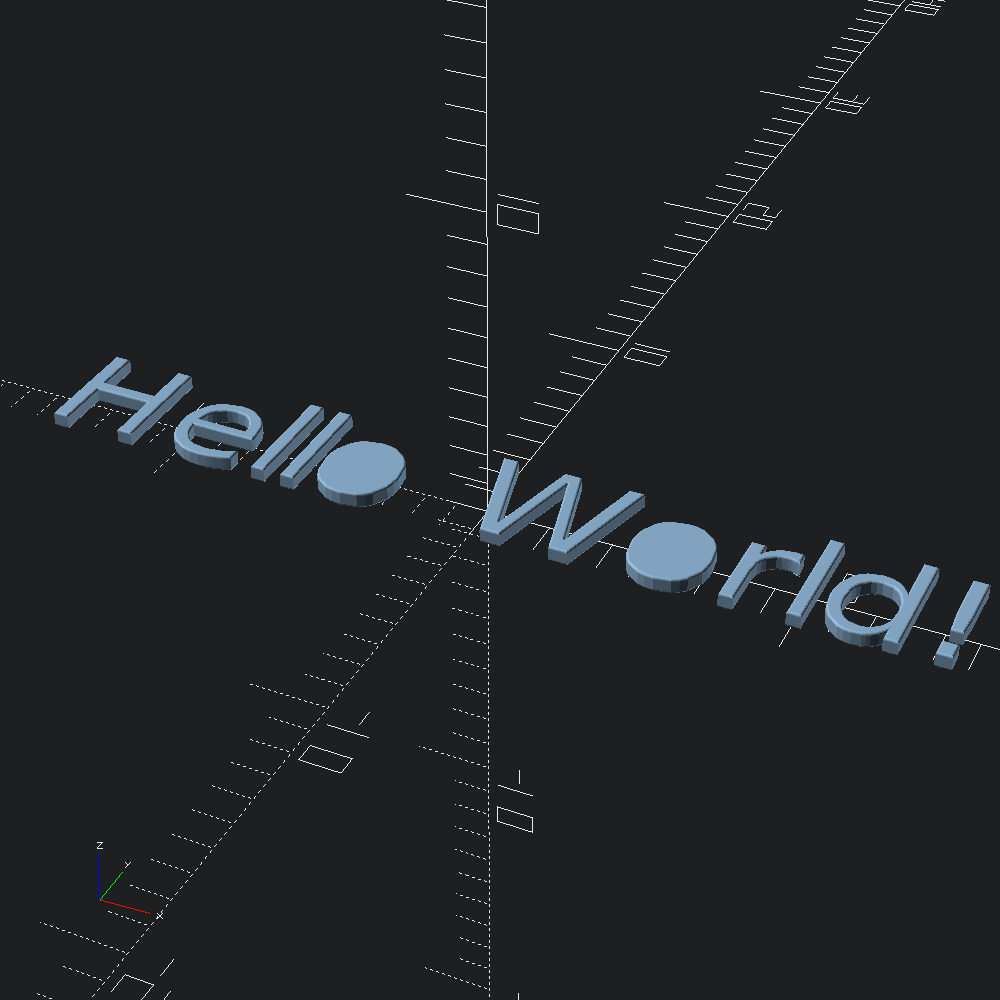
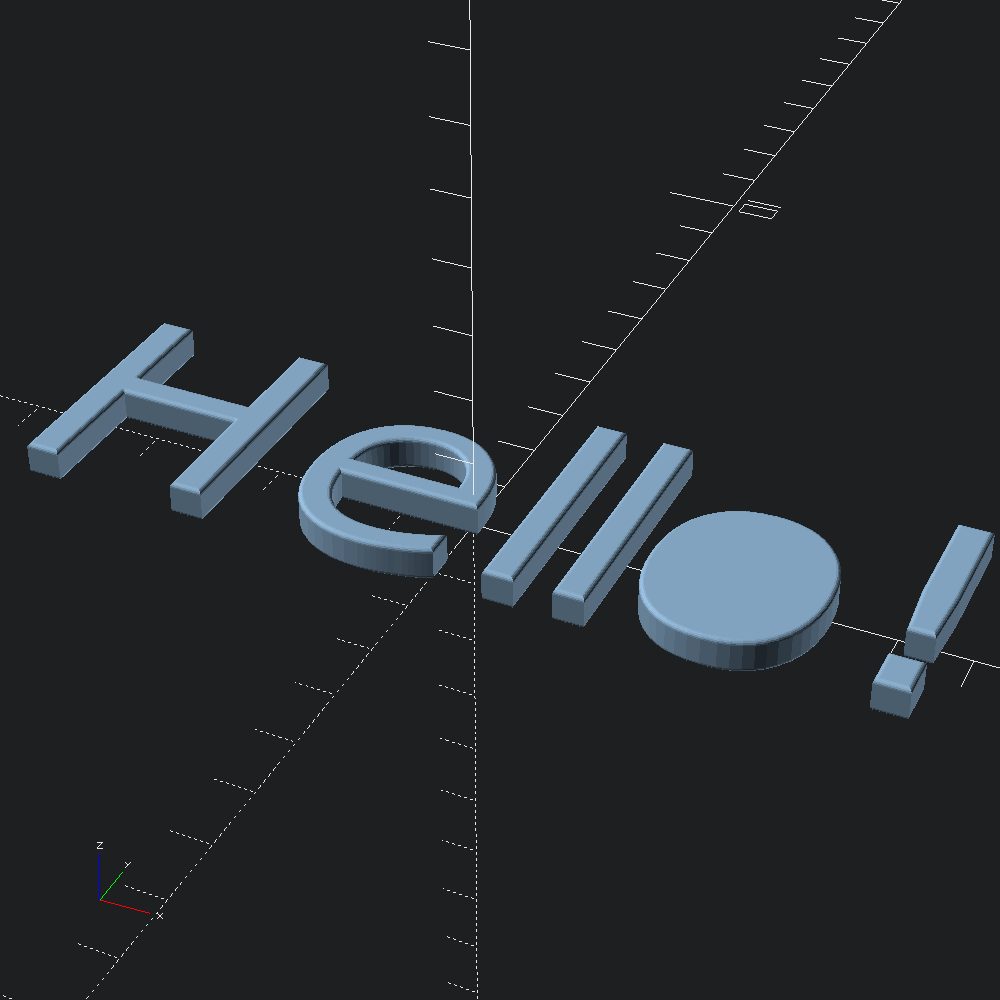
deploy: f668d345ef161a8c3db050849059b578d2c6c04e

diff --git a/scad_ml/rounded_text.html b/scad_ml/rounded_text.html
@@ -1,6 +1,6 @@
 <!DOCTYPE html>
-<html xmlns="http://www.w3.org/1999/xhtml"><head><title>rounded_text (scad_ml.rounded_text)</title><link rel="stylesheet" href="../odoc.css"/><meta charset="utf-8"/><meta name="generator" content="odoc 2.1.1"/><meta name="viewport" content="width=device-width,initial-scale=1.0"/><script src="../highlight.pack.js"></script><script>hljs.initHighlightingOnLoad();</script></head><body class="odoc"><nav class="odoc-nav"><a href="index.html">Up</a> – <a href="index.html">scad_ml</a> &#x00BB; rounded_text</nav><header class="odoc-preamble"><h1 id="rounded-text-extrusion"><a href="#rounded-text-extrusion" class="anchor"></a>Rounded text extrusion</h1><pre><code>open Scad_ml</code></pre><p>Generate a list of <a href="Scad_ml/Poly2/index.html#type-t"><code>Poly2.t</code></a> spelling out <b>Hello World!</b>. At the moment, <a href="Scad_ml/PolyText/index.html#val-text"><code>PolyText.text</code></a> is not as flexible and feature rich as <a href="Scad_ml/Scad/index.html#val-text"><code>Scad.text</code></a> (OpenSCADs text shape function), but this gives up point representations that be can work with directly.</p><pre><code>let hello = PolyText.text ~center:true ~fn:2 ~size:5. ~font:&quot;Ubuntu&quot; &quot;Hello World!&quot;</code></pre><p>Circular roundovers with <code>fn</code> steps, specified by a distance to be <code>`Cut</code> off of the corners. You can expect some finickiness with applying roundovers to the polygons produced by <a href="Scad_ml/PolyText/index.html#val-text"><code>PolyText.text</code></a>, as the paths coming from Cairo may have some points quite close together, leading to illegal paths when further roundover operations are applied.</p><pre><code>let caps =
-  let spec = Mesh.Cap.(round ~mode:Delta @@ circ ~fn:5 (`Cut 0.029)) in
+<html xmlns="http://www.w3.org/1999/xhtml"><head><title>rounded_text (scad_ml.rounded_text)</title><link rel="stylesheet" href="../odoc.css"/><meta charset="utf-8"/><meta name="generator" content="odoc 2.1.1"/><meta name="viewport" content="width=device-width,initial-scale=1.0"/><script src="../highlight.pack.js"></script><script>hljs.initHighlightingOnLoad();</script></head><body class="odoc"><nav class="odoc-nav"><a href="index.html">Up</a> – <a href="index.html">scad_ml</a> &#x00BB; rounded_text</nav><header class="odoc-preamble"><h1 id="rounded-text-extrusion"><a href="#rounded-text-extrusion" class="anchor"></a>Rounded text extrusion</h1><pre><code>open Scad_ml</code></pre><p>Generate a list of <a href="Scad_ml/Poly2/index.html#type-t"><code>Poly2.t</code></a> spelling out <b>Hello World!</b>. At the moment, <a href="Scad_ml/PolyText/index.html#val-text"><code>PolyText.text</code></a> is not as flexible and feature rich as <a href="Scad_ml/Scad/index.html#val-text"><code>Scad.text</code></a> (OpenSCADs text shape function), but this gives up point representations that be can work with directly.</p><pre><code>let hello = PolyText.text ~center:true ~fn:5 ~size:5. ~font:&quot;Ubuntu&quot; &quot;Hello!&quot;</code></pre><p>Circular roundovers with <code>fn</code> steps, specified by a distance to be <code>`Cut</code> off of the corners. You can expect some finickiness with applying roundovers to the polygons produced by <a href="Scad_ml/PolyText/index.html#val-text"><code>PolyText.text</code></a>, as the paths coming from Cairo may have some points quite close together, leading to illegal paths when further roundover operations are applied.</p><pre><code>let caps =
+  let spec = Mesh.Cap.(round ~mode:Delta @@ circ ~fn:5 (`Cut 0.028)) in
   Mesh.Cap.{ top = spec; bot = spec }</code></pre><p>Map over the character polys in <code>hello</code> with a rounded extrusion funcion specified by <code>caps</code>, and convert into <a href="Scad_ml/Scad/index.html#type-t"><code>Scad.t</code></a>s that we can union to create our final model.</p><pre><code>let extruder poly = Mesh.(to_scad @@ linear_extrude ~caps ~height:0.5 poly)
 let () = List.map extruder hello |&gt; Scad.union |&gt; Scad.to_file &quot;rounded_text.scad&quot;</code></pre>
 <p style="text-align:center;">
